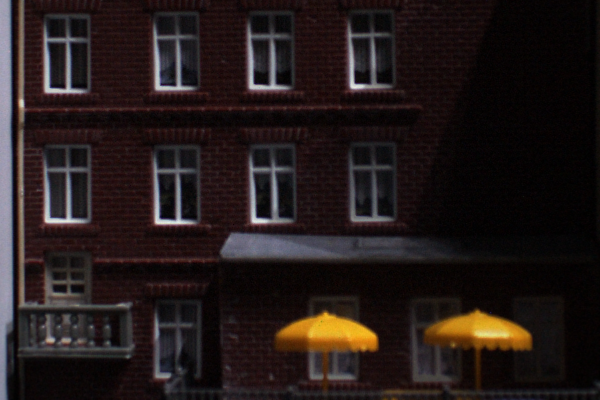
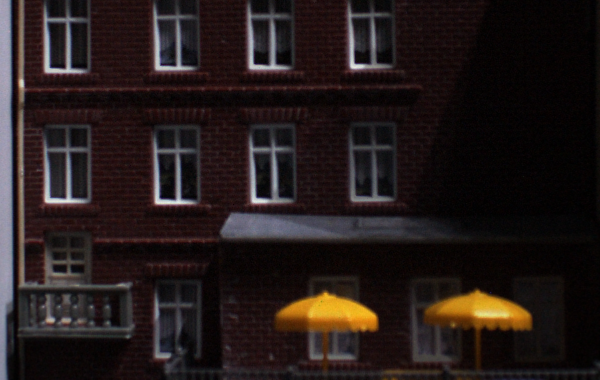
Pixel normalization etc.

diff --git a/report/proposed_descriptor.tex b/report/proposed_descriptor.tex
@@ -35,6 +35,12 @@ The five functions above can be seen as the components that make up our descript
 The choice of value and magnitude functions are closely connected, as we wish the magnitude function to weight the histogram values according to their importance for the local image structure. The by far most common choice in literature \cite{lowe2004distinctive,ke2004pca,mikolajczyk2005performance,tola2008fast} is using gradient orientation $\Theta$ as value function and gradient magnitude $M$ as magnitude function (possibly post-processed). Another choice \cite{pedersen2013shape} is to use shape index $S$ weighted by curvedness $C$.
 
 TODO: scale spaces, pixel normalization
+
+The pixel normalized magnitude at a point is defined as the magnitude relative to a local area, which we compute by convolution with a Gaussian filter:
+%
+\begin{align}
+F_\text{norm}(\p) = \frac{F(\p)}{\int F(\x) G(\x - \p; \boldsymbol{\sigma}) \,\text{d} \x}
+\end{align}
 %
 \section{Center aperture function}
 %
@@ -57,14 +63,11 @@ A_j(\x) = G(\x - \c_j; \boldsymbol{\sigma})
 %
 where $\c_j$ is the cell center for cell $j$.
 
-The cell aperture function is defined for all cells in the feature. Having defined both $P$ and $A_j$ we are now able to define the \emph{grid layouts} that define the cell centers $\boldsymbol{c}_j$ for each feature.
-\Cref{fig:gridType} shows examples of the six different grid layouts that we propose: Polar, polar central, log-polar, concentric polar, concentric polar central, and concentric log-polar. The four polar grids all rely on polar Gaussian aperture cell functions where $G$ is replaced by a polar Gaussian function converting the cartesian coordinates into polar coordinates before applying the Gaussian function and converting back into cartesian coordinates afterwards. The two log-polar grids both use cartesian Gaussian aperture cell functions. The examples are shown for the \emph{grid size} $8\times 2$ meaning that each layout has 8 cells in each of their 2 circles. The two ``central'' grids are furthermore having a single central cell (hence the name).
+The cell aperture function is defined for all cells in the feature. Having defined both $P$ and $A_j$ we are now able to define the \emph{grid layouts} that define the cell offsets for each feature.
+\Cref{fig:gridType} shows examples of the six different grid layouts that we propose: Polar, polar central, log-polar, concentric polar, concentric polar central, and concentric log-polar. The four polar grids all rely on polar Gaussian aperture cell functions while the two log-polar grids both use cartesian Gaussian aperture cell functions. The examples are shown for the \emph{grid size} $8\times 2$ meaning that each layout has 8 cells in each of their 2 circles. The two ``central'' grids are furthermore having a single central cell (hence the name).
 
-All these layouts are defined relative to the \emph{grid radius}, which is defined as a constrant times the detection scale of the feature. In other words the grid radius defines the span of the feature. The grid layouts are defined such that by default the standard deviations of the outer-most cells in the feature touch the grid radius. Each ring concists of $n$ cells dividing the ring equally in the angular direction. Furthermore the following holds for each of the specific layouts:
+All these layouts are defined relative to the \emph{grid radius}, which is defined as a constrant times the detection scale of the feature. In other words the grid radius defines the span of the feature. The grid layouts are defined such that the standard deviations of the outer-most cells in the feature touch the grid radius. Each ring of cells is split equally into $n$
 
-For log-polar layouts the radial span of each ring is defined such that the standard deviation of a cell touches the standard deviations of the neighbouring rings and neighbouring angles by default. This results in different default cell sigmas for the normal and concentric log-polar grid layouts since the concentric log-polar grid layout can pack the cells more densely without overlapping cells as seen in \Cref{fig:gridType_lp,fig:gridType_clp}.
-
-For polar layouts the radial span is divided equally between the rings. The polar central layouts are furthermore having a central cell of half the radial span of the rings. The polar Gaussian cell aperture function combined with postioning of the cell centers $\boldsymbol{c}_j$ are shown in \Cref{fig:gridType_p,fig:gridType_pc,fig:gridType_cp,fig:gridType_cpc}. These layouts are inspired by the GLOH \cite{mikolajczyk2005performance} and Irregular SIFT \cite{cui2009scale} layouts.
 See \Cref{apx:grid_layouts} for more information on how to compute the grid layout positions.
 
 \begin{figure}
@@ -75,12 +78,12 @@ See \Cref{apx:grid_layouts} for more information on how to compute the grid layo
 	\begin{subfigure}[t]{0.32\textwidth}
 		\includegraphics[width=\textwidth]{img/gridType_polar_polar_gaussian.pdf}
 		\caption{Polar}
-		\label{fig:gridType_p}
+		\label{fig:gridType_ppg}
 	\end{subfigure}
 	\begin{subfigure}[t]{0.32\textwidth}
 		\includegraphics[width=\textwidth]{img/gridType_polar_central_polar_gaussian.pdf}
 		\caption{Polar central}
-		\label{fig:gridType_pc}
+		\label{fig:gridType_pcpg}
 	\end{subfigure}
 	\begin{subfigure}[t]{0.32\textwidth}
 		\includegraphics[width=\textwidth]{img/gridType_log-polar.pdf}
@@ -90,12 +93,12 @@ See \Cref{apx:grid_layouts} for more information on how to compute the grid layo
 	\begin{subfigure}[t]{0.32\textwidth}
 		\includegraphics[width=\textwidth]{img/gridType_concentric_polar_polar_gaussian.pdf}
 		\caption{Concentric polar}
-		\label{fig:gridType_cp}
+		\label{fig:gridType_cppg}
 	\end{subfigure}
 	\begin{subfigure}[t]{0.32\textwidth}
 		\includegraphics[width=\textwidth]{img/gridType_concentric_polar_central_polar_gaussian.pdf}
 		\caption{Concentric polar central}
-		\label{fig:gridType_cpc}
+		\label{fig:gridType_cpcpg}
 	\end{subfigure}
 	\begin{subfigure}[t]{0.32\textwidth}
 		\includegraphics[width=\textwidth]{img/gridType_concentric_log-polar.pdf}
@@ -158,22 +161,24 @@ From the blurred and downsampled images we apply derivative filters in order to 
     	\caption{Normalized pixel magnitude images}
     	\label{fig:cellHistScaleSpacesMnorm}
 	\end{subfigure}
-	\caption{}
+	\caption{Images \subref{fig:cellHistScaleSpacesV} and \subref{fig:cellHistScaleSpacesM} show gradient orientation and magnitude images computed at various scales. Image \subref{fig:cellHistScaleSpacesMnorm} shows the pixel normalized magnitude images, where the magnitudes are relative to a small local area.}
 	\label{fig:cellHistScaleSpacesVM}
 \end{figure}
 
 \begin{figure}[tb]
-    \centering
-    \includegraphics[width=\textwidth]{img/cellHistScaleSpacesBin01.pdf}
-    \caption{}
-    \label{fig:cellHistScaleSpacesBin01}
-\end{figure}
-
-\begin{figure}[tb]
-    \centering
-    \includegraphics[width=\textwidth]{img/cellHistScaleSpacesBin07.pdf}
-    \caption{}
-    \label{fig:cellHistScaleSpacesBin07}
+	\centering
+	\begin{subfigure}[t]{\textwidth}
+		\includegraphics[width=\textwidth]{img/cellHistScaleSpacesBin01.pdf}
+    	\caption{Bin $1$ of $12$}
+    	\label{fig:cellHistScaleSpacesBin01}
+	\end{subfigure}
+	\begin{subfigure}[t]{\textwidth}
+		\includegraphics[width=\textwidth]{img/cellHistScaleSpacesBin07.pdf}
+    	\caption{Bin $7$ of $12$}
+    	\label{fig:cellHistScaleSpacesBin07}
+	\end{subfigure}
+	\caption{Bin value images for two of the histogram bins. Images \subref{fig:cellHistScaleSpacesBin01} and \subref{fig:cellHistScaleSpacesBin07} correspond to the opposite bin centers $\Theta = -165^\circ$ and $\Theta = 15^\circ$, and we see that opposite sides of the beer cans are given the greatest bin values for each image.}
+	\label{fig:cellHistScaleSpacesBins}
 \end{figure}
 
 \begin{figure}[tb]

diff --git a/src/figures/runPixelNormalizationExample.m b/src/figures/runPixelNormalizationExample.m
@@ -5,7 +5,7 @@ I1 = rgb2gray(I1rgb);
 I2rgb = im2double(loadDtuImage(1,25,20));
 I2 = rgb2gray(I2rgb);
 
-cutout = {500:899,500:1099};
+cutout = {520:899,500:1099};
 
 S1 = dGaussScaleSpace(I1,kJetCoeffs(2),1,1);
 S2 = dGaussScaleSpace(I2,kJetCoeffs(2),1,1);
